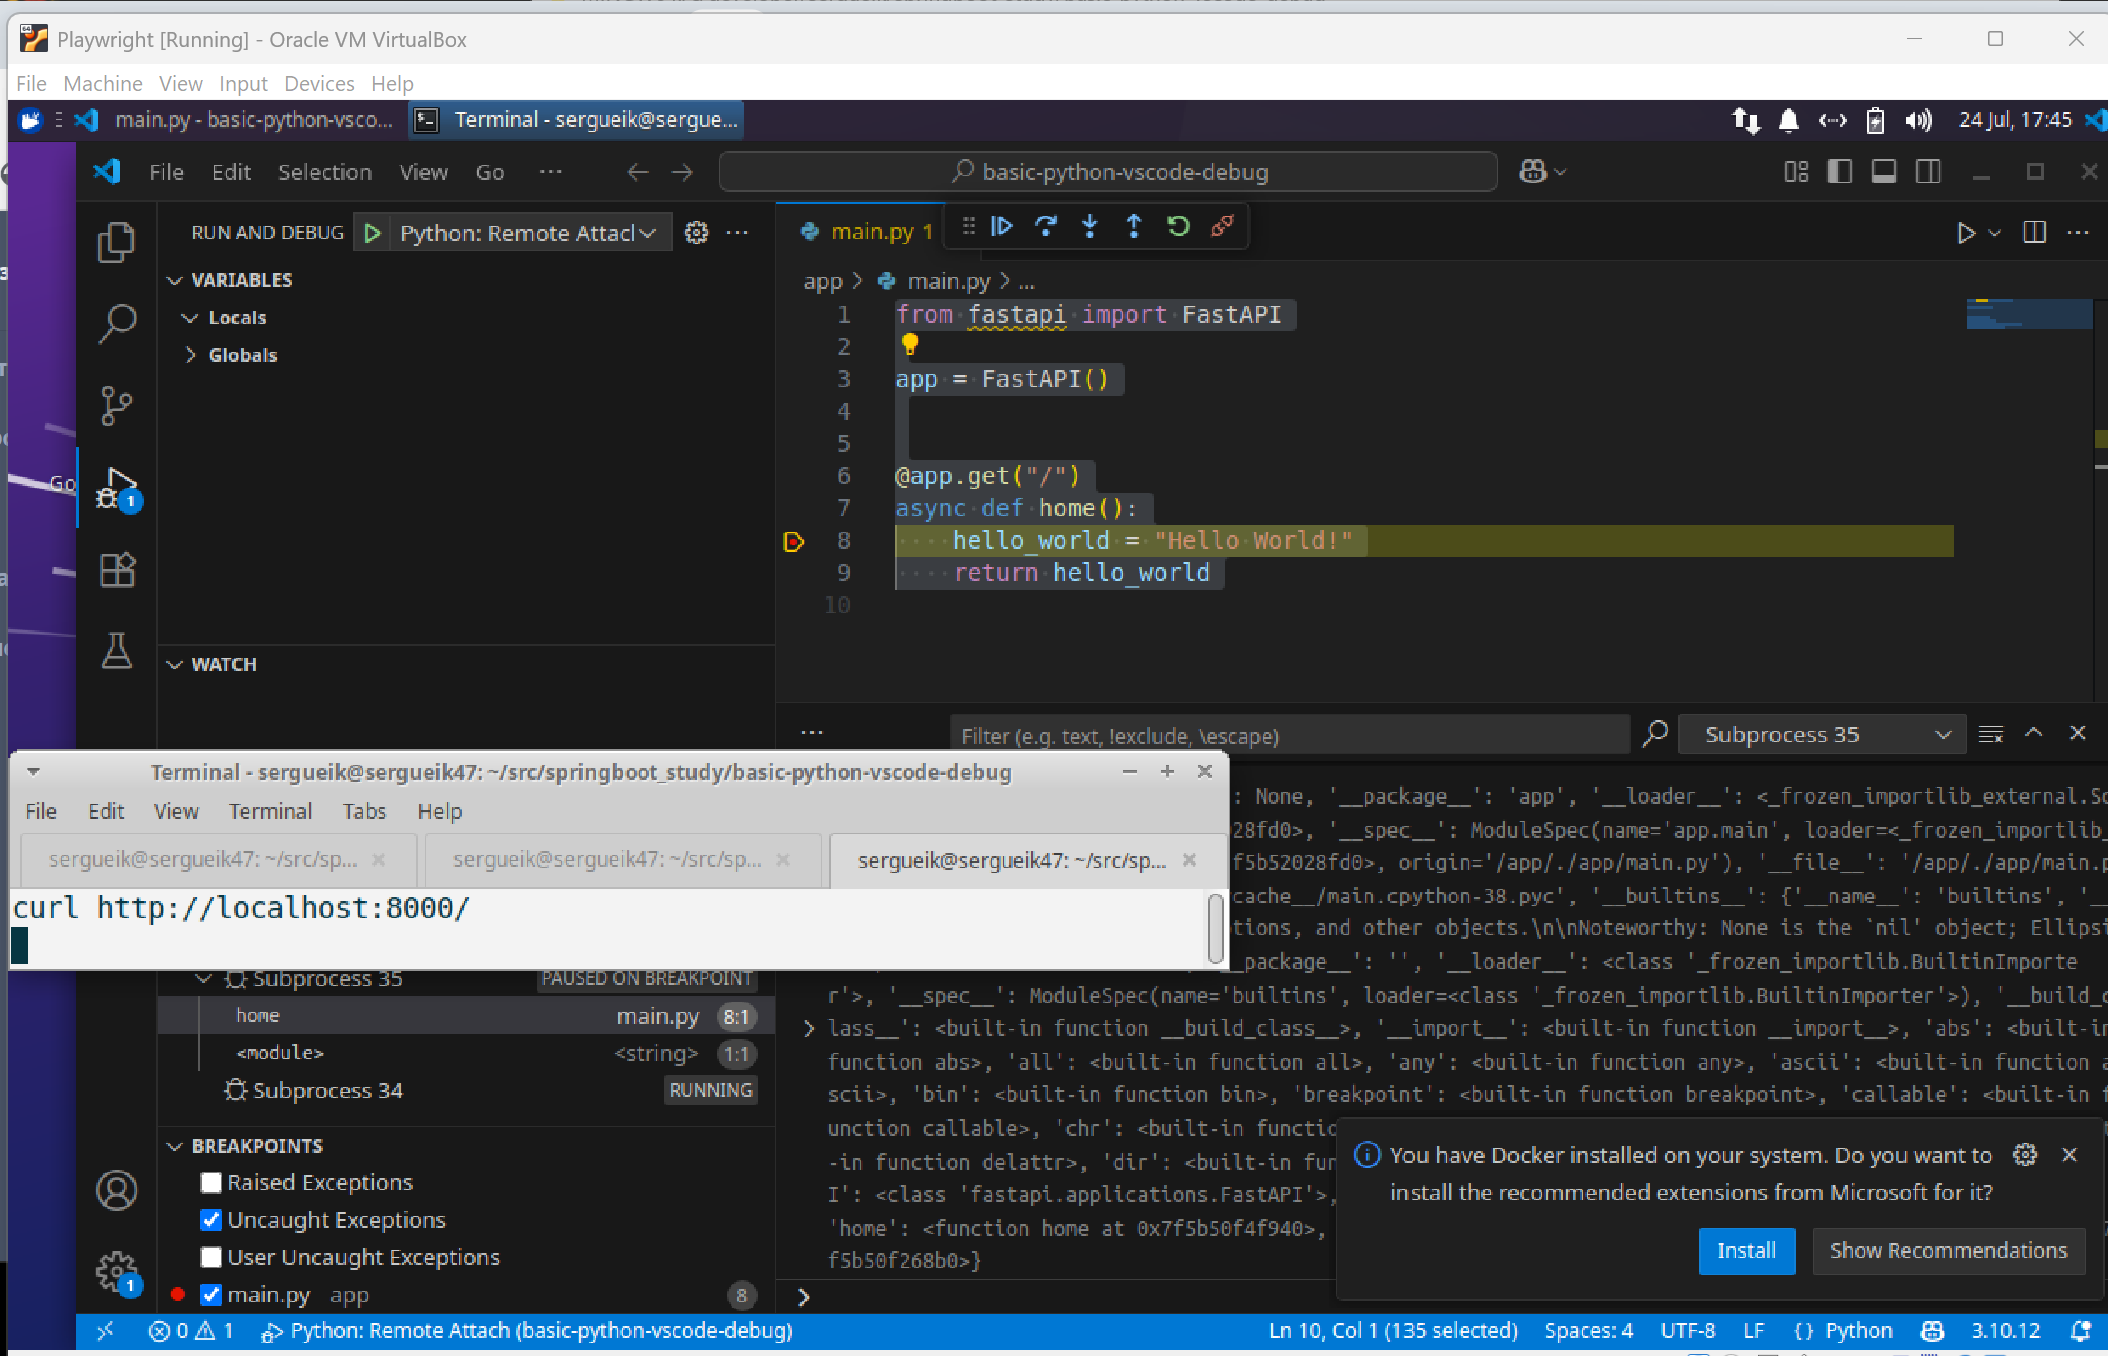
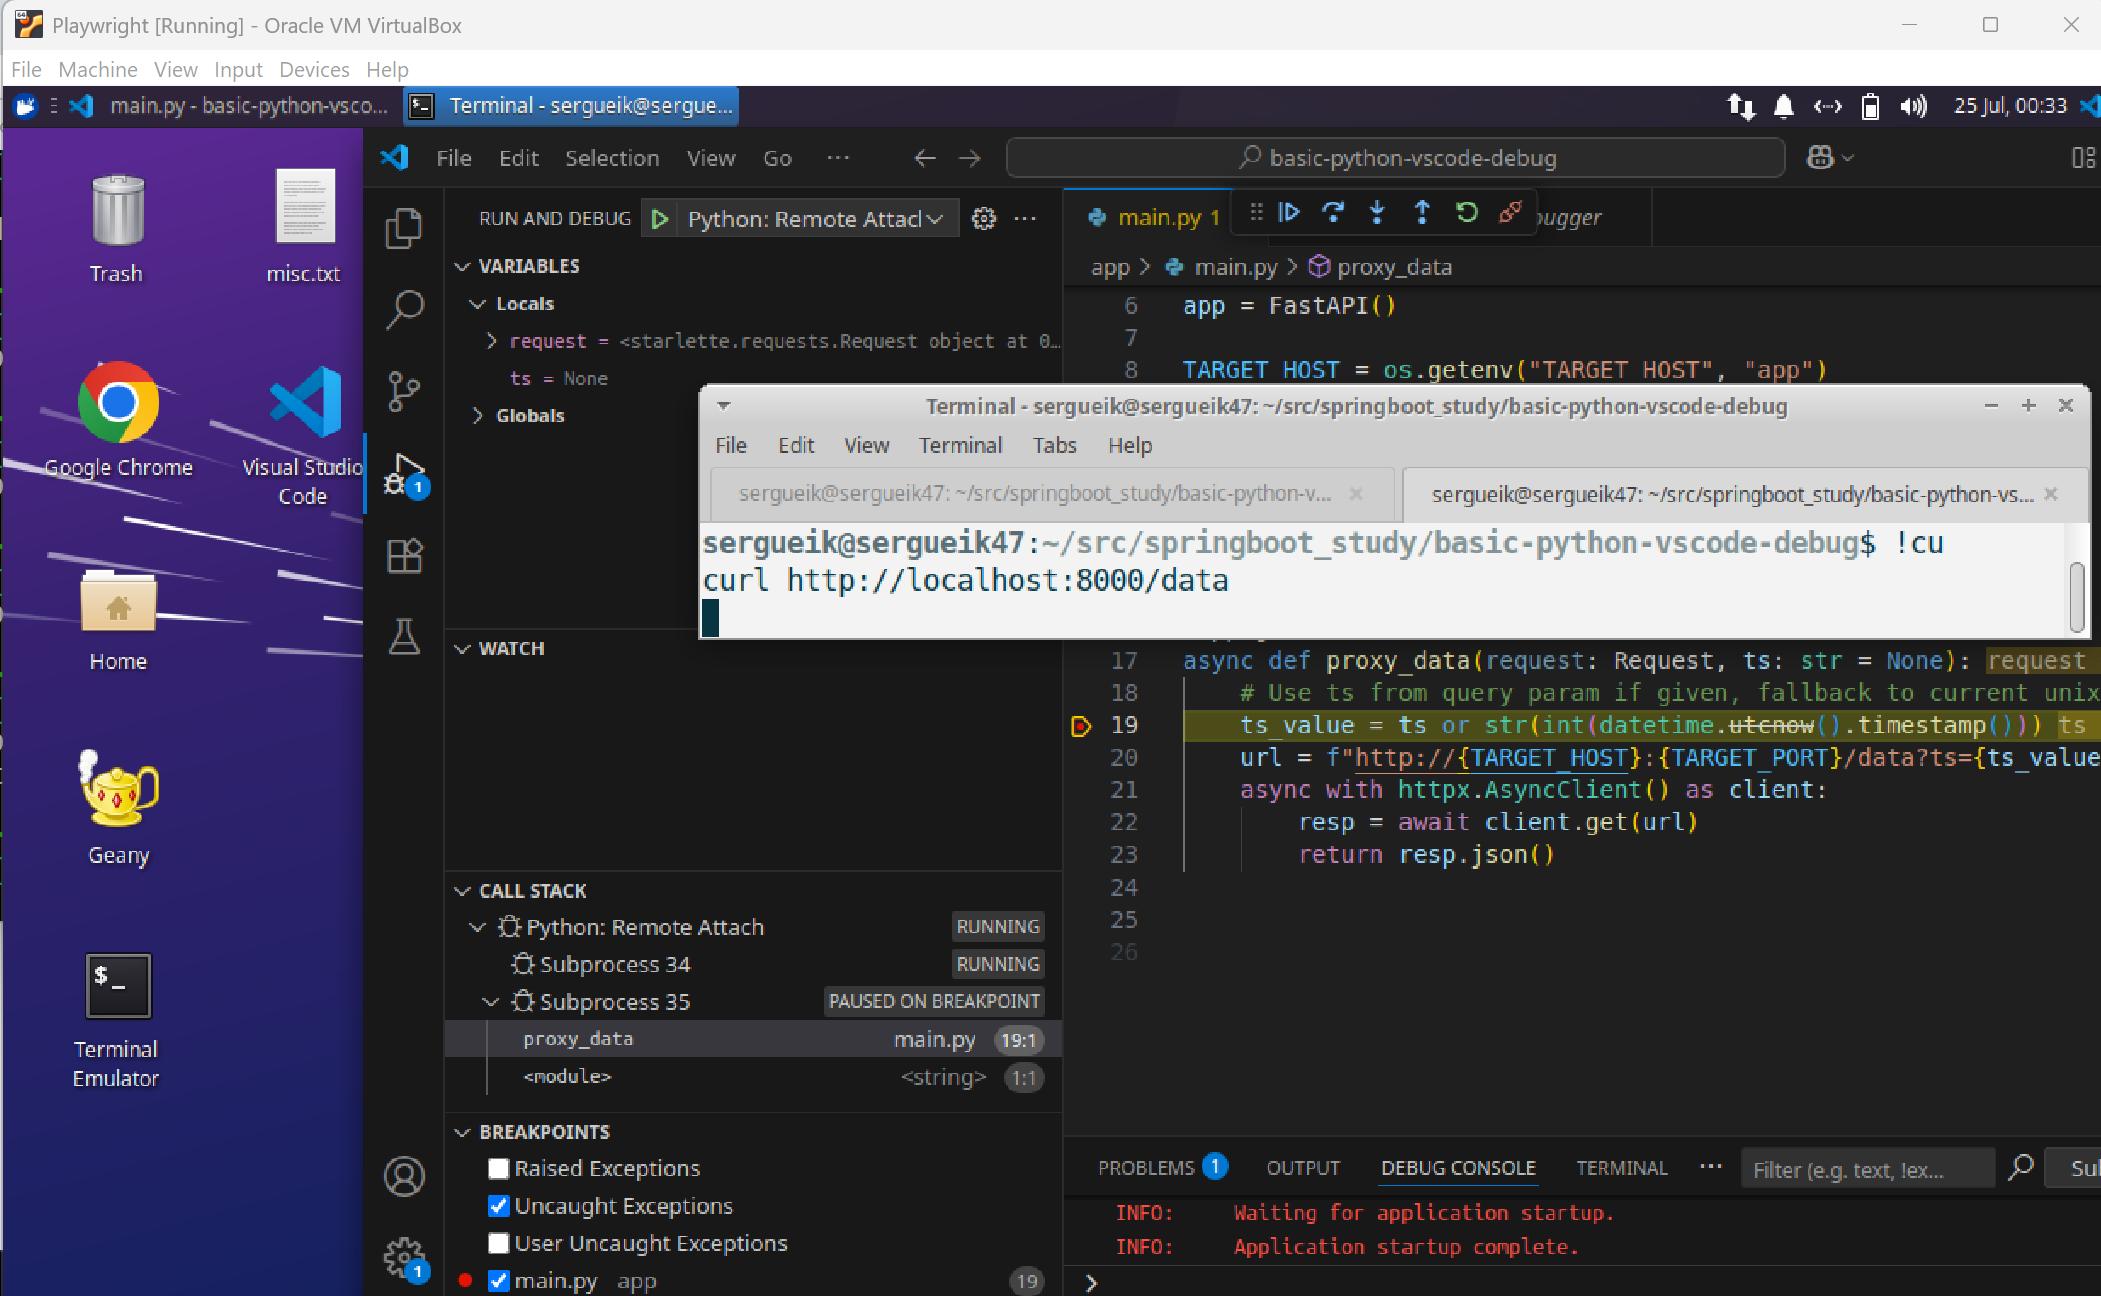
intermediate revison - added notes about visual studio code setup

diff --git a/basic-python-vscode-debug/README.md b/basic-python-vscode-debug/README.md
@@ -1,10 +1,10 @@
-
 ### Info
-Replica of
-[need to debug your FastAPI application with Docker](https://github.com/Kludex/fastapi-docker-debug)
-by Kludex
+
+Replica of [need to debug your FastAPI application with Docker](https://github.com/Kludex/fastapi-docker-debug)
+by Kludex with a proxy application passing additional arguments before calling a REST API.
 
 ![working](screenshots/vscode.png)
+
 ### Usage
 
 ```sh
@@ -16,9 +16,256 @@ connect with API via curl
 curl -s http://localhost:8000/data
 ```
 
+### Manual Steps
+
+Due to its dependency on [Docker directory mapping](https://docs.docker.com/engine/storage/bind-mounts) (also known as bind mounts or volume mounts) that only works with some Windows Docker clients [Docker Desktop](https://docs.docker.com/desktop/) but not well with the [Docker  Toolbox](https://docs.bitnami.com/containers/how-to/install-docker-in-windows/)
+- a *legacy desktop solution* designed and kept around on these older operating systems Windows Server, Windows _7_,_8_,_10_ by Microsoft and macOS versions __10.8__ (*Mountain Lion*) through __10.10__ (*Yosemite*) by Apple by leveraging a lightweight flat Linux virtual machine (VM) managed by [Docker Machine]() and powered by [Oracle VirtualBox](https://www.virtualbox.org/wiki/Documentation).
+
+
+It is easier to install npm and vscode on a Linux machine and debug dockerized application from there:
+
+One will still need to interactively install [Python Debugger extension for Visual Studio Code](https://marketplace.visualstudio.com/items?itemName=ms-python.debugpy) from inside [vscode](https://code.visualstudio.com/docs).
+the documentation below details the steps
+
+* Examine `.vscode/launch.json` for VS Code debugging. 
+If intend to attach to the running container will need to configure `remoteRoot` and `localRoot` directory `${workspaceFolder}` without relying on named volumes which in turn depend on Windows networking (a Docker named volume that relies an SMB share as its underlying storage is somewhat more reliable):
+
+The TCP port must match that defined in `docker-compose.debug.yaml` 
+
+  * enable debugging in the container application:
+Add this to `requirements.txt` or `Dockerfile` or `docker-composer.yml`
+container command:
+
+```sh
+pip install debugpy
+```
+* note the PORT
+
+```sh
+python -m debugpy --listen 0.0.0.0:5678 --wait-for-client -m uvicorn main:app --host 0.0.0.0 --port 8000 --reload
+```
+
+if hosted on Windows, will need to use named volumes in Docker Compose:
+
+
+```
+volumes:
+  - .:/app
+```
+
+there is also `.devcontainer/` folder (optional) when using VS Code’s remote containers extension.
+
+![working](screenshots/vscode-extension.png)
+
+* Inside VS Code, verify the debugger is attached:
+You should have "Python: Remote Attach" or similar in `.vscode/launch.json`. Note,  this is not a istandard JSON  file, it will fail in `jq` due to comments:
+
+```json
+{
+  "version": "0.2.0",
+  "configurations": [
+    {
+      "name": "Python: Remote Attach",
+      "type": "python",
+      "request": "attach",
+      "connect": {
+        "host": "localhost",
+        "port": 5678
+      },
+      "pathMappings": [
+        {
+          "localRoot": "${workspaceFolder}",
+          "remoteRoot": "/app"
+        }
+      ]
+    }
+  ]
+}
+```
+
+* In VS Code, click Run and Debug (__F5__), then choose “Python: Remote Attach”, hit Start Debugging. Alternatively set a breakpoint and execute correspondent endpoint
+
+* Your app should pause at `--wait-for-client` until VS Code connects.
+### Note
+
+if VS Code is attached it appears that rebuilding the container is not stable 
+
+```sh
+docker-compose -f docker-compose.debug.yaml up --build -d
+```
+(slightly truncated):
+
+```text
+Sending build context to Docker daemon  369.7kB
+Step 1/5 : FROM python:3.8
+ ---> 3ea6eaad4f17
+Step 2/5 : WORKDIR /app/
+ ---> Using cache
+ ---> 7630379507fc
+Step 3/5 : COPY . /app/
+ ---> 1f5033c3c93b
+Step 4/5 : RUN pip install -r requirements.txt
+ ---> Running in 20f051f22059
+Collecting fastapi==0.63.0
+  Downloading fastapi-0.63.0-py3-none-any.whl (50 kB)
+     ━━━━━━━━━━━━━━━━━━━━━━━━━━━━━━━━━━━━━━━ 50.5/50.5 kB 896.3 kB/s eta 0:00:00
+Collecting uvicorn[standard]==0.13.3
+  Downloading uvicorn-0.13.3-py3-none-any.whl (45 kB)
+     ━━━━━━━━━━━━━━━━━━━━━━━━━━━━━━━━━━━━━━━━ 45.7/45.7 kB 1.9 MB/s eta 0:00:00
+Collecting httpx==0.28.1
+  Downloading httpx-0.28.1-py3-none-any.whl (73 kB)
+     ━━━━━━━━━━━━━━━━━━━━━━━━━━━━━━━━━━━━━━━━ 73.5/73.5 kB 1.1 MB/s eta 0:00:00
+Collecting starlette==0.13.6
+  Downloading starlette-0.13.6-py3-none-any.whl (59 kB)
+     ━━━━━━━━━━━━━━━━━━━━━━━━━━━━━━━━━━━━━━━━ 60.0/60.0 kB 1.8 MB/s eta 0:00:00
+Collecting pydantic<2.0.0,>=1.0.0
+  Downloading pydantic-1.10.22-cp38-cp38-manylinux_2_17_x86_64.manylinux2014_x86_64.whl (3.2 MB)
+     ━━━━━━━━━━━━━━━━━━━━━━━━━━━━━━━━━━━━━━━━ 3.2/3.2 MB 2.5 MB/s eta 0:00:00
+Collecting click==7.*
+  Downloading click-7.1.2-py2.py3-none-any.whl (82 kB)
+     ━━━━━━━━━━━━━━━━━━━━━━━━━━━━━━━━━━━━━━━━ 82.8/82.8 kB 2.4 MB/s eta 0:00:00
+Collecting h11>=0.8
+  Downloading h11-0.16.0-py3-none-any.whl (37 kB)
+Collecting uvloop>=0.14.0
+  Downloading uvloop-0.21.0-cp38-cp38-manylinux_2_17_x86_64.manylinux2014_x86_64.whl (4.3 MB)
+     ━━━━━━━━━━━━━━━━━━━━━━━━━━━━━━━━━━━━━━━━ 4.3/4.3 MB 3.0 MB/s eta 0:00:00
+Collecting httptools==0.1.*
+  Downloading httptools-0.1.2-cp38-cp38-manylinux1_x86_64.whl (229 kB)
+     ━━━━━━━━━━━━━━━━━━━━━━━━━━━━━━━━━━━━━━━ 229.6/229.6 kB 5.6 MB/s eta 0:00:00
+Collecting watchgod<0.7,>=0.6
+  Downloading watchgod-0.6-py35.py36.py37-none-any.whl (10 kB)
+Collecting python-dotenv>=0.13
+  Downloading python_dotenv-1.0.1-py3-none-any.whl (19 kB)
+Collecting websockets==8.*
+  Downloading websockets-8.1-cp38-cp38-manylinux2010_x86_64.whl (78 kB)
+     ━━━━━━━━━━━━━━━━━━━━━━━━━━━━━━━━━━━━━━━━ 78.4/78.4 kB 2.6 MB/s eta 0:00:00
+Collecting PyYAML>=5.1
+  Downloading PyYAML-6.0.2-cp38-cp38-manylinux_2_17_x86_64.manylinux2014_x86_64.whl (746 kB)
+     ━━━━━━━━━━━━━━━━━━━━━━━━━━━━━━━━━━━━━━━ 746.5/746.5 kB 2.6 MB/s eta 0:00:00
+Collecting certifi
+  Downloading certifi-2025.7.14-py3-none-any.whl (162 kB)
+     ━━━━━━━━━━━━━━━━━━━━━━━━━━━━━━━━━━━━━━━ 162.7/162.7 kB 2.7 MB/s eta 0:00:00
+Collecting anyio
+  Downloading anyio-4.5.2-py3-none-any.whl (89 kB)
+     ━━━━━━━━━━━━━━━━━━━━━━━━━━━━━━━━━━━━━━━━ 89.8/89.8 kB 2.8 MB/s eta 0:00:00
+Collecting httpcore==1.*
+  Downloading httpcore-1.0.9-py3-none-any.whl (78 kB)
+     ━━━━━━━━━━━━━━━━━━━━━━━━━━━━━━━━━━━━━━━━ 78.8/78.8 kB 2.5 MB/s eta 0:00:00
+Collecting idna
+  Downloading idna-3.10-py3-none-any.whl (70 kB)
+     ━━━━━━━━━━━━━━━━━━━━━━━━━━━━━━━━━━━━━━━━ 70.4/70.4 kB 2.2 MB/s eta 0:00:00
+Collecting typing-extensions>=4.2.0
+  Downloading typing_extensions-4.13.2-py3-none-any.whl (45 kB)
+     ━━━━━━━━━━━━━━━━━━━━━━━━━━━━━━━━━━━━━━━━ 45.8/45.8 kB 2.0 MB/s eta 0:00:00
+Collecting exceptiongroup>=1.0.2
+  Downloading exceptiongroup-1.3.0-py3-none-any.whl (16 kB)
+Collecting sniffio>=1.1
+  Downloading sniffio-1.3.1-py3-none-any.whl (10 kB)
+Installing collected packages: httptools, websockets, watchgod, uvloop, typing-extensions, starlette, sniffio, PyYAML, python-dotenv, idna, h11, click, certifi, uvicorn, pydantic, httpcore, exceptiongroup, fastapi, anyio, httpx
+Successfully installed PyYAML-6.0.2 anyio-4.5.2 certifi-2025.7.14 click-7.1.2 exceptiongroup-1.3.0 fastapi-0.63.0 h11-0.16.0 httpcore-1.0.9 httptools-0.1.2 httpx-0.28.1 idna-3.10 pydantic-1.10.22 python-dotenv-1.0.1 sniffio-1.3.1 starlette-0.13.6 typing-extensions-4.13.2 uvicorn-0.13.3 uvloop-0.21.0 watchgod-0.6 websockets-8.1
+WARNING: Running pip as the 'root' user can result in broken permissions and conflicting behaviour with the system package manager. It is recommended to use a virtual environment instead: https://pip.pypa.io/warnings/venv
+
+[notice] A new release of pip is available: 23.0.1 -> 25.0.1
+[notice] To update, run: pip install --upgrade pip
+ ---> Removed intermediate container 20f051f22059
+ ---> 6d301346501f
+Step 5/5 : CMD uvicorn app.main:app --reload --host 0.0.0.0 --port 8000
+ ---> Running in 624994c3862a
+ ---> Removed intermediate container 624994c3862a
+ ---> a58f09216deb
+Successfully built a58f09216deb
+Successfully tagged basic-python-vscode-debug_app:latest
+Recreating basic-python-vscode-debug_app_1 ...
+
+ERROR: for basic-python-vscode-debug_app_1  'ContainerConfig'
+
+ERROR: for app  'ContainerConfig'
+Traceback (most recent call last):
+  File "/usr/bin/docker-compose", line 33, in <module>
+    sys.exit(load_entry_point('docker-compose==1.29.2', 'console_scripts', 'docker-compose')())
+  File "/usr/lib/python3/dist-packages/compose/cli/main.py", line 81, in main
+    command_func()
+  File "/usr/lib/python3/dist-packages/compose/cli/main.py", line 203, in perform_command
+    handler(command, command_options)
+  File "/usr/lib/python3/dist-packages/compose/metrics/decorator.py", line 18, in wrapper
+    result = fn(*args, **kwargs)
+  File "/usr/lib/python3/dist-packages/compose/cli/main.py", line 1186, in up
+    to_attach = up(False)
+  File "/usr/lib/python3/dist-packages/compose/cli/main.py", line 1166, in up
+    return self.project.up(
+  File "/usr/lib/python3/dist-packages/compose/project.py", line 697, in up
+    results, errors = parallel.parallel_execute(
+  File "/usr/lib/python3/dist-packages/compose/parallel.py", line 108, in parallel_execute
+    raise error_to_reraise
+  File "/usr/lib/python3/dist-packages/compose/parallel.py", line 206, in producer
+    result = func(obj)
+  File "/usr/lib/python3/dist-packages/compose/project.py", line 679, in do
+    return service.execute_convergence_plan(
+  File "/usr/lib/python3/dist-packages/compose/service.py", line 579, in execute_convergence_plan
+    return self._execute_convergence_recreate(
+  File "/usr/lib/python3/dist-packages/compose/service.py", line 499, in _execute_convergence_recreate
+    containers, errors = parallel_execute(
+  File "/usr/lib/python3/dist-packages/compose/parallel.py", line 108, in parallel_execute
+    raise error_to_reraise
+  File "/usr/lib/python3/dist-packages/compose/parallel.py", line 206, in producer
+    result = func(obj)
+  File "/usr/lib/python3/dist-packages/compose/service.py", line 494, in recreate
+    return self.recreate_container(
+  File "/usr/lib/python3/dist-packages/compose/service.py", line 612, in recreate_container
+    new_container = self.create_container(
+  File "/usr/lib/python3/dist-packages/compose/service.py", line 330, in create_container
+    container_options = self._get_container_create_options(
+  File "/usr/lib/python3/dist-packages/compose/service.py", line 921, in _get_container_create_options
+    container_options, override_options = self._build_container_volume_options(
+  File "/usr/lib/python3/dist-packages/compose/service.py", line 960, in _build_container_volume_options
+    binds, affinity = merge_volume_bindings(
+  File "/usr/lib/python3/dist-packages/compose/service.py", line 1548, in merge_volume_bindings
+    old_volumes, old_mounts = get_container_data_volumes(
+  File "/usr/lib/python3/dist-packages/compose/service.py", line 1579, in get_container_data_volumes
+    container.image_config['ContainerConfig'].get('Volumes') or {}
+KeyError: 'ContainerConfig'
+
+```
+and one has  to recycle and rebuidl all the  way:
+```sh
+ docker-compose -f docker-compose.debug.yaml stop ; docker-compose -f docker-compose.debug.yaml  rm  -f ; docker-compose -f docker-compose.debug.yaml  up --build -d
+```
+```text
+Going to remove 1fc5c80e488c_basic-python-vscode-debug_app_1
+Removing 1fc5c80e488c_basic-python-vscode-debug_app_1 ... done
+Building app
+DEPRECATED: The legacy builder is deprecated and will be removed in a future release.
+            Install the buildx component to build images with BuildKit:
+            https://docs.docker.com/go/buildx/
+
+Sending build context to Docker daemon  369.7kB
+Step 1/5 : FROM python:3.8
+ ---> 3ea6eaad4f17
+Step 2/5 : WORKDIR /app/
+ ---> Using cache
+ ---> 7630379507fc
+Step 3/5 : COPY . /app/
+ ---> Using cache
+ ---> 1f5033c3c93b
+Step 4/5 : RUN pip install -r requirements.txt
+ ---> Using cache
+ ---> 6d301346501f
+Step 5/5 : CMD uvicorn app.main:app --reload --host 0.0.0.0 --port 8000
+ ---> Using cache
+ ---> a58f09216deb
+Successfully built a58f09216deb
+Successfully tagged basic-python-vscode-debug_app:latest
+Creating basic-python-vscode-debug_app_1 ... done
+
+```
+
 ### See Also
   * [debug Python within a container](https://code.visualstudio.com/docs/containers/debug-python)
 
-  
+  * [introduction to Docker Toolbox](https://www.educba.com/docker-toolbox/)
+  * [Docker - Toolbox vs. Desktop](https://www.geeksforgeeks.org/devops/docker-toolbox)
+  * [docker Machine on Windows - How To Setup You Hosts](https://dzone.com/articles/docker-machine-windows-how)
+  * [docker machine chocolatey](https://community.chocolatey.org/packages/docker-machine)
+
 ### Author
 [Serguei Kouzmine](kouzmine_serguei@yahoo.com)
